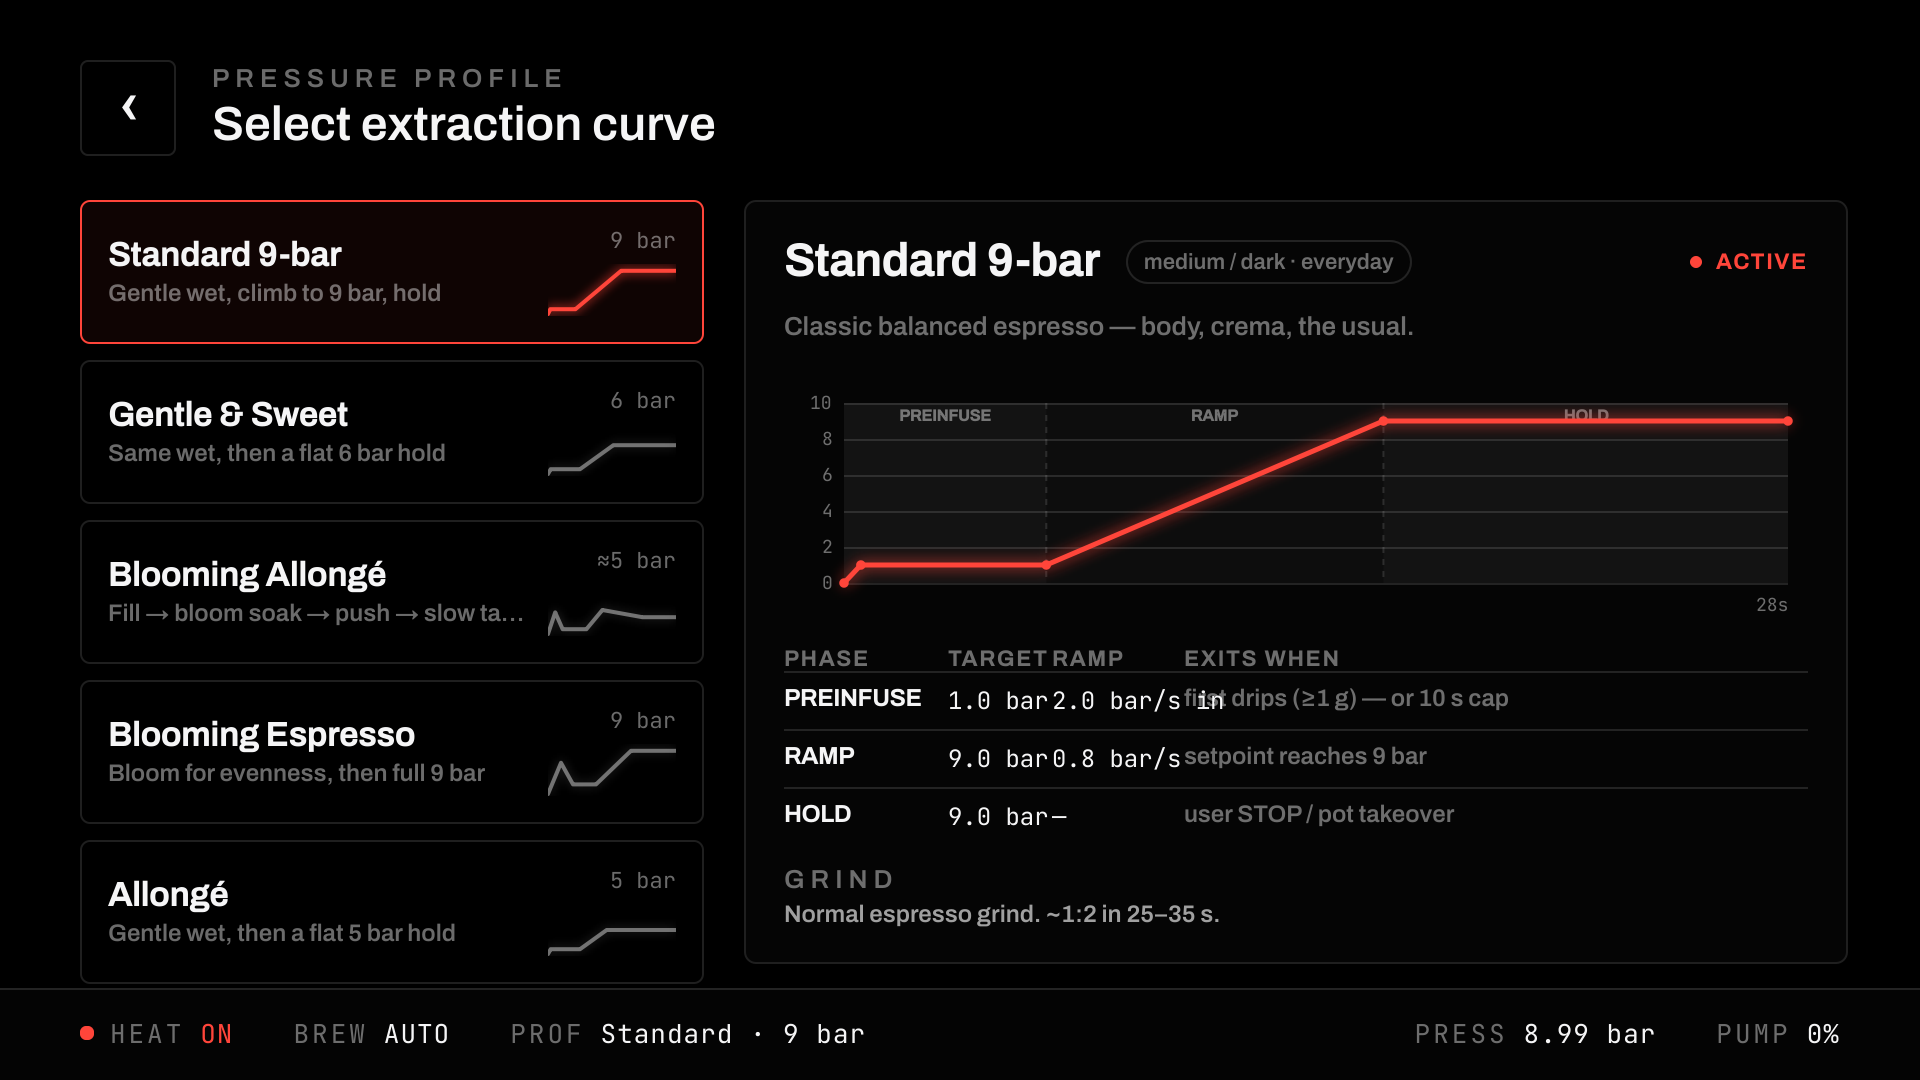
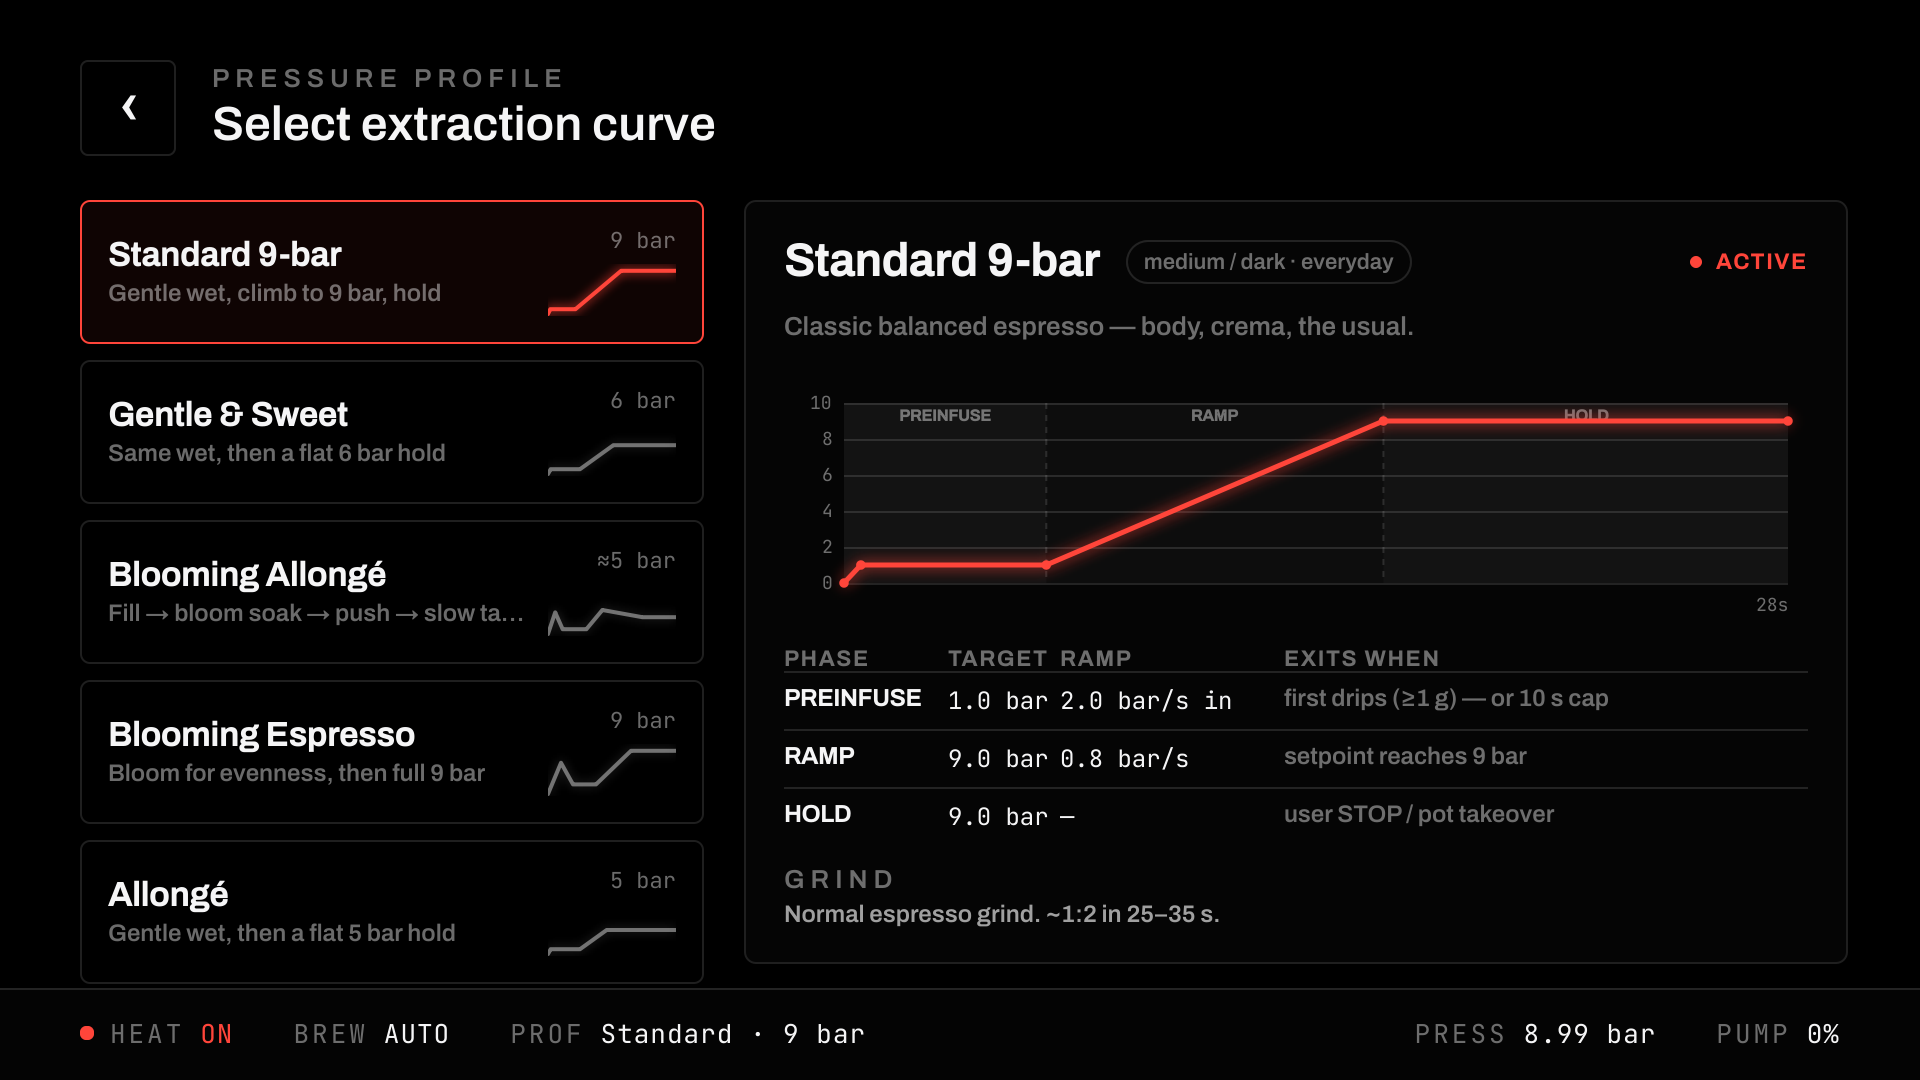
Profile detail: widen RAMP column so ramp values don't overlap EXITS WHEN
RAMP column was 66px; values like '0.12 bar/s down' overflowed into the
exit column. Widened to 112px (TARGET 56), exit fills remainder and elides.
Verified on the Blooming profiles (longest ramp strings).

Changed region(s): [[0.5625, 0.5806, 0.8438, 0.7639], [0.5625, 0.5806, 0.5938, 0.6111]]

diff --git a/ui/source/main_precision.qml b/ui/source/main_precision.qml
@@ -519,8 +519,8 @@ ApplicationWindow {
                         Row {
                             width: parent.width
                             Text { width: 82; text: "PHASE"; color: Theme.dim; font.family: Theme.archivo; font.pixelSize: 11; font.weight: Theme.w700; font.letterSpacing: 1; font.capitalization: Font.AllUppercase }
-                            Text { width: 60; text: "TARGET"; color: Theme.dim; font.family: Theme.archivo; font.pixelSize: 11; font.weight: Theme.w700; font.letterSpacing: 1 }
-                            Text { width: 66; text: "RAMP"; color: Theme.dim; font.family: Theme.archivo; font.pixelSize: 11; font.weight: Theme.w700; font.letterSpacing: 1 }
+                            Text { width: 56; text: "TARGET"; color: Theme.dim; font.family: Theme.archivo; font.pixelSize: 11; font.weight: Theme.w700; font.letterSpacing: 1 }
+                            Text { width: 112; text: "RAMP"; color: Theme.dim; font.family: Theme.archivo; font.pixelSize: 11; font.weight: Theme.w700; font.letterSpacing: 1 }
                             Text { text: "EXITS WHEN"; color: Theme.dim; font.family: Theme.archivo; font.pixelSize: 11; font.weight: Theme.w700; font.letterSpacing: 1 }
                         }
                         Repeater {
@@ -532,9 +532,9 @@ ApplicationWindow {
                                     width: parent.width; topPadding: 6; bottomPadding: 6
                                     property var ph: profRoot.prof.phases[index]
                                     Text { width: 82; text: parent.ph.name; color: Theme.ink; font.family: Theme.archivo; font.pixelSize: 12; font.weight: Theme.w700 }
-                                    Text { width: 60; text: parent.ph.target; color: Theme.ink; font.family: Theme.mono; font.pixelSize: 12 }
-                                    Text { width: 66; text: parent.ph.ramp; color: Theme.ink; font.family: Theme.mono; font.pixelSize: 12 }
-                                    Text { width: parent.width - 200; elide: Text.ElideRight; text: parent.ph.exit; color: Theme.dim; font.family: Theme.archivo; font.pixelSize: 12 }
+                                    Text { width: 56; text: parent.ph.target; color: Theme.ink; font.family: Theme.mono; font.pixelSize: 12 }
+                                    Text { width: 112; elide: Text.ElideRight; text: parent.ph.ramp; color: Theme.ink; font.family: Theme.mono; font.pixelSize: 12 }
+                                    Text { width: parent.width - 250; elide: Text.ElideRight; text: parent.ph.exit; color: Theme.dim; font.family: Theme.archivo; font.pixelSize: 12 }
                                 }
                             }
                         }
